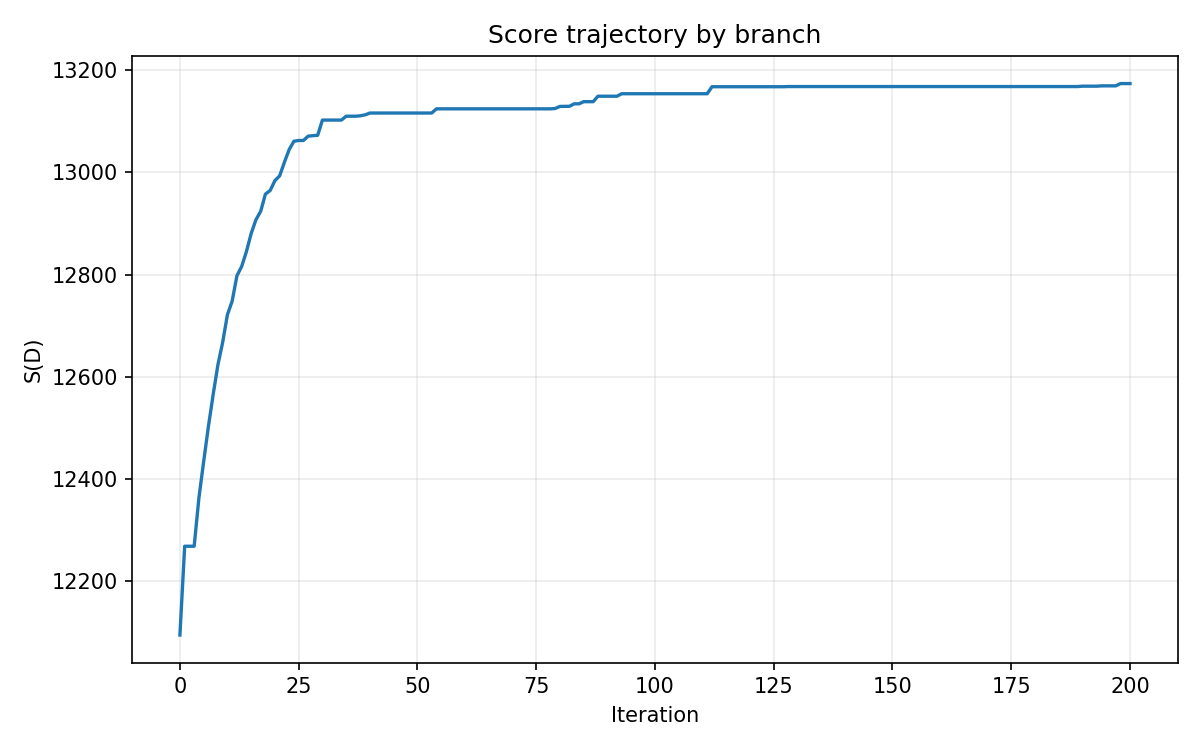
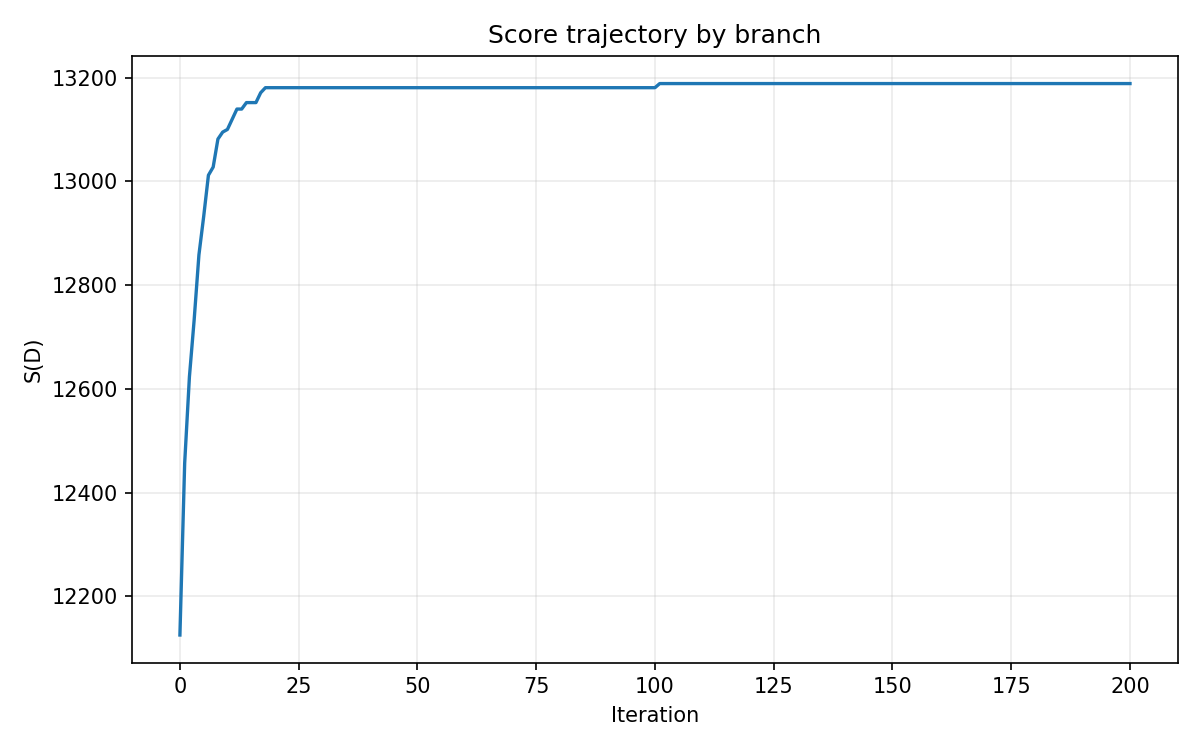
xxx

diff --git a/calculate_my_mask.py b/calculate_my_mask.py
@@ -276,14 +276,36 @@ def select_group_mask(
     else:
         target_size = 0
 
-    ga_population_size = 4
-    ga_generations = 200
+    ga_population_size = 8
+    ga_generations = 120
     ga_offspring = ga_population_size
-    crossover_sym_ratio = 0.7
-    mutation_ratio = 0.005
-    local_search_ratio = 0.01
+    crossover_sym_ratio = 0.8
 
-    def _real_stats(cur_mask: np.ndarray) -> tuple[float, np.ndarray, np.ndarray]:
+    def _dynamic_parameter_adjustment(cr: int) -> tuple[float, float]:
+        if cr <= 30:
+            return 5, 5
+        if cr <= 60:
+            return 3, 3
+        return 1, 1
+
+    mutation_scale, local_search_scale = _dynamic_parameter_adjustment(cut_ratio)
+    mutation_ratio = 0.008 * mutation_scale
+    local_search_ratio = 0.01 * local_search_scale
+    k_mut_base = max(1, int(mutation_ratio * target_size))
+    k_ls_base = max(1, int(local_search_ratio * target_size))
+
+    stall_counter = 0
+    EPS_IMPROVE = 1e-8
+    STALL_TRIGGER = max(8, ga_generations // 25)
+    STALL_SHAKE = max(20, ga_generations // 8)
+
+    cached_real_stats: dict[tuple[int, ...], tuple[float, np.ndarray, np.ndarray]] = {}
+
+    def _real_stats_cached(cur_mask: np.ndarray) -> tuple[float, np.ndarray, np.ndarray]:
+        cur_key = tuple(np.flatnonzero(cur_mask).tolist())
+        cached = cached_real_stats.get(cur_key)
+        if cached is not None:
+            return cached
         div_scores = np.asarray(
             div_metric.score_dataset_dynamic(
                 div_loader,
@@ -311,7 +333,9 @@ def select_group_mask(
         )
         counts = np.bincount(labels_np[cur_mask.astype(bool)], minlength=num_classes).astype(np.int64)
         s_val = float(np.sum(s_ref[cur_mask.astype(bool)]))
-        return s_val, s_ref, counts
+        result = (s_val, s_ref, counts)
+        cached_real_stats[cur_key] = result
+        return result
 
     def _indices_to_mask(indices: np.ndarray) -> np.ndarray:
         mask = np.zeros(num_samples, dtype=np.uint8)
@@ -341,7 +365,7 @@ def select_group_mask(
 
     def _evaluate(indices: np.ndarray) -> dict[str, object]:
         mask = _indices_to_mask(indices)
-        fitness, s_ref, counts = _real_stats(mask)
+        fitness, s_ref, counts = _real_stats_cached(mask)
         return {
             "indices": np.sort(indices.astype(np.int64)),
             "mask": mask,
@@ -349,6 +373,64 @@ def select_group_mask(
             "s_ref": s_ref,
             "counts": counts,
         }
+
+    def _adaptive_mutation_and_search(
+        k_mut_base_value: int,
+        k_ls_base_value: int,
+        stall_steps: int,
+        max_steps: int,
+    ) -> tuple[int, int]:
+        k_mut = k_mut_base_value
+        k_ls = k_ls_base_value
+        if stall_steps >= max_steps:
+            max_exchange = max(0, num_samples - target_size)
+            k_mut = min(k_mut_base_value * 2, max_exchange)
+            k_ls = min(k_ls_base_value * 2, max_exchange)
+        return k_mut, k_ls
+
+    def _local_search_step(child: np.ndarray, proxy_scores: np.ndarray, k_ls_value: int) -> np.ndarray:
+        k_ls_value = min(k_ls_value, num_samples - child.size, child.size)
+        if k_ls_value <= 0:
+            return child
+        child_order = np.argsort(proxy_scores[child])
+        ls_drop = child[child_order[:k_ls_value]]
+        child_comp = np.setdiff1d(np.arange(num_samples, dtype=np.int64), child, assume_unique=False)
+        if child_comp.size == 0:
+            return child
+        ls_add_order = np.argsort(-proxy_scores[child_comp])
+        ls_add = child_comp[ls_add_order[:k_ls_value]]
+        child = np.setdiff1d(child, ls_drop, assume_unique=False)
+        child = np.concatenate([child, ls_add])
+        return child
+
+    def _shake(pop_data: list[dict[str, object]], k_mut_value: int, k_ls_value: int) -> dict[str, object]:
+        best_ind = pop_data[0]
+        shaken_child = np.array(best_ind["indices"], dtype=np.int64)
+        k_shake = min(
+            max(int(np.sqrt(max(target_size, 1)) * 2), 2),
+            shaken_child.size,
+            max(0, num_samples - shaken_child.size),
+        )
+        if k_shake <= 0:
+            return _evaluate(_repair_size(shaken_child))
+
+        drop_idx = np.random.choice(shaken_child, size=k_shake, replace=False).astype(np.int64)
+        comp_child = np.setdiff1d(np.arange(num_samples, dtype=np.int64), shaken_child, assume_unique=False)
+        add_idx = np.random.choice(comp_child, size=k_shake, replace=False).astype(np.int64)
+        shaken_child = np.setdiff1d(shaken_child, drop_idx, assume_unique=False)
+        shaken_child = np.concatenate([shaken_child, add_idx])
+        shaken_child = _repair_size(shaken_child)
+
+        if k_mut_value > 0:
+            drop_idx = np.random.choice(shaken_child, size=k_mut_value, replace=False).astype(np.int64)
+            comp_child = np.setdiff1d(np.arange(num_samples, dtype=np.int64), shaken_child, assume_unique=False)
+            add_idx = np.random.choice(comp_child, size=k_mut_value, replace=False).astype(np.int64)
+            shaken_child = np.setdiff1d(shaken_child, drop_idx, assume_unique=False)
+            shaken_child = np.concatenate([shaken_child, add_idx])
+
+        proxy_scores = np.asarray(best_ind["s_ref"], dtype=np.float32)
+        shaken_child = _local_search_step(shaken_child, proxy_scores, k_ls_value)
+        return _evaluate(_repair_size(shaken_child))
 
     def _tournament_select(population: list[dict[str, object]]) -> dict[str, object]:
         if len(population) == 1:
@@ -374,7 +456,23 @@ def select_group_mask(
         leave=True,
     )
 
+    best_fitness = max(float(item["fitness"]) for item in population)
+
     for _ in generation_iter:
+        cur_best = float(population[0]["fitness"])
+        if cur_best > best_fitness + EPS_IMPROVE:
+            best_fitness = cur_best
+            stall_counter = 0
+        else:
+            stall_counter += 1
+
+        k_mut, k_ls = _adaptive_mutation_and_search(
+            k_mut_base,
+            k_ls_base,
+            stall_counter,
+            STALL_TRIGGER,
+        )
+
         offspring: list[dict[str, object]] = []
         for _offspring_idx in range(ga_offspring):
             parent_a = _tournament_select(population)
@@ -404,7 +502,6 @@ def select_group_mask(
 
             child = _repair_size(child)
 
-            k_mut = max(1, int(mutation_ratio * target_size))
             k_mut = min(k_mut, child.size, num_samples - child.size)
             if k_mut > 0:
                 drop_idx = np.random.choice(child, size=k_mut, replace=False).astype(np.int64)
@@ -418,19 +515,14 @@ def select_group_mask(
                 parent_a["s_ref"] if float(parent_a["fitness"]) >= float(parent_b["fitness"]) else parent_b["s_ref"],
                 dtype=np.float32,
             )
-            k_ls = max(1, int(local_search_ratio * target_size))
-            k_ls = min(k_ls, child.size, num_samples - child.size)
-            if k_ls > 0:
-                child_order = np.argsort(proxy_scores[child])
-                ls_drop = child[child_order[:k_ls]]
-                child_comp = np.setdiff1d(np.arange(num_samples, dtype=np.int64), child, assume_unique=False)
-                ls_add_order = np.argsort(-proxy_scores[child_comp])
-                ls_add = child_comp[ls_add_order[:k_ls]]
-                child = np.setdiff1d(child, ls_drop, assume_unique=False)
-                child = np.concatenate([child, ls_add])
-                child = _repair_size(child)
+            child = _local_search_step(child, proxy_scores, k_ls)
+            child = _repair_size(child)
 
             offspring.append(_evaluate(child))
+
+        if stall_counter >= STALL_SHAKE:
+            offspring.append(_shake(population, k_mut, k_ls))
+            stall_counter = 0
 
         merged = population + offspring
         merged_sorted = sorted(merged, key=lambda item: float(item["fitness"]), reverse=True)
@@ -445,6 +537,7 @@ def select_group_mask(
             if len(dedup_population) >= ga_population_size:
                 break
         population = dedup_population
+        population.sort(key=lambda item: float(item["fitness"]), reverse=True)
 
         generation_best = max(float(item["fitness"]) for item in population)
         best_history.append(generation_best)
@@ -452,7 +545,7 @@ def select_group_mask(
 
     best_individual = max(population, key=lambda item: float(item["fitness"]))
     final_mask = np.asarray(best_individual["mask"], dtype=np.uint8)
-    _, final_s_all, _ = _real_stats(final_mask)
+    _, final_s_all, _ = _real_stats_cached(final_mask)
 
     selected_by_class: dict[int, int] = {}
     for class_id in range(num_classes):
